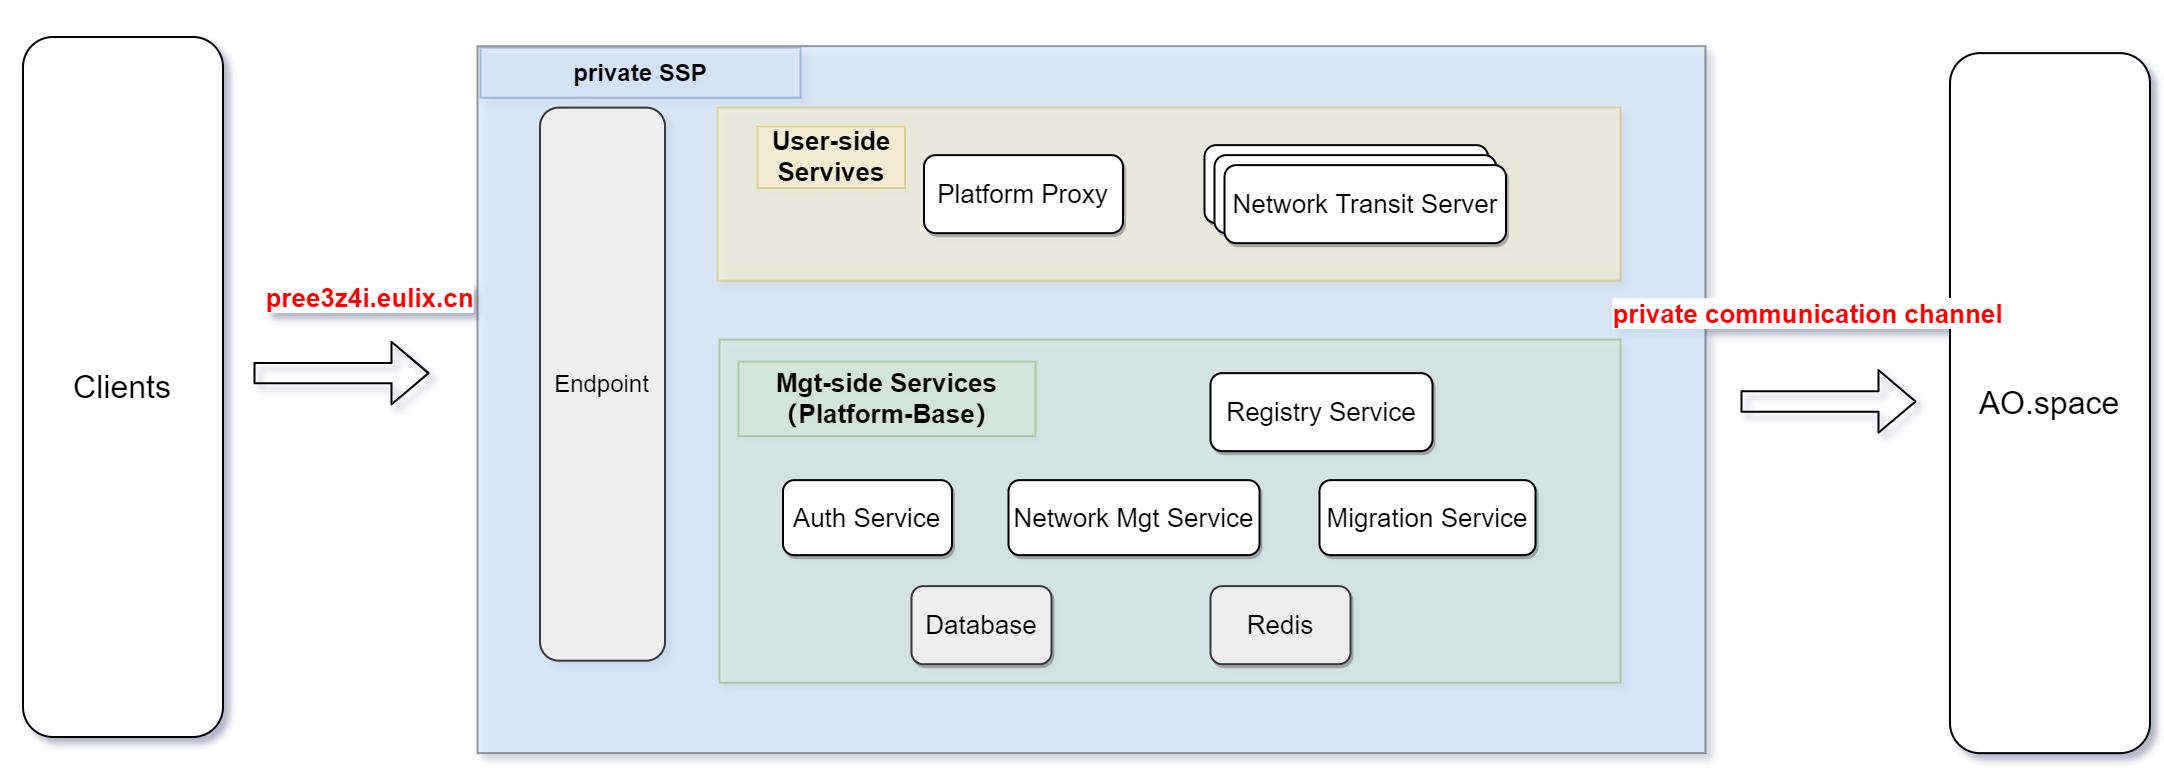
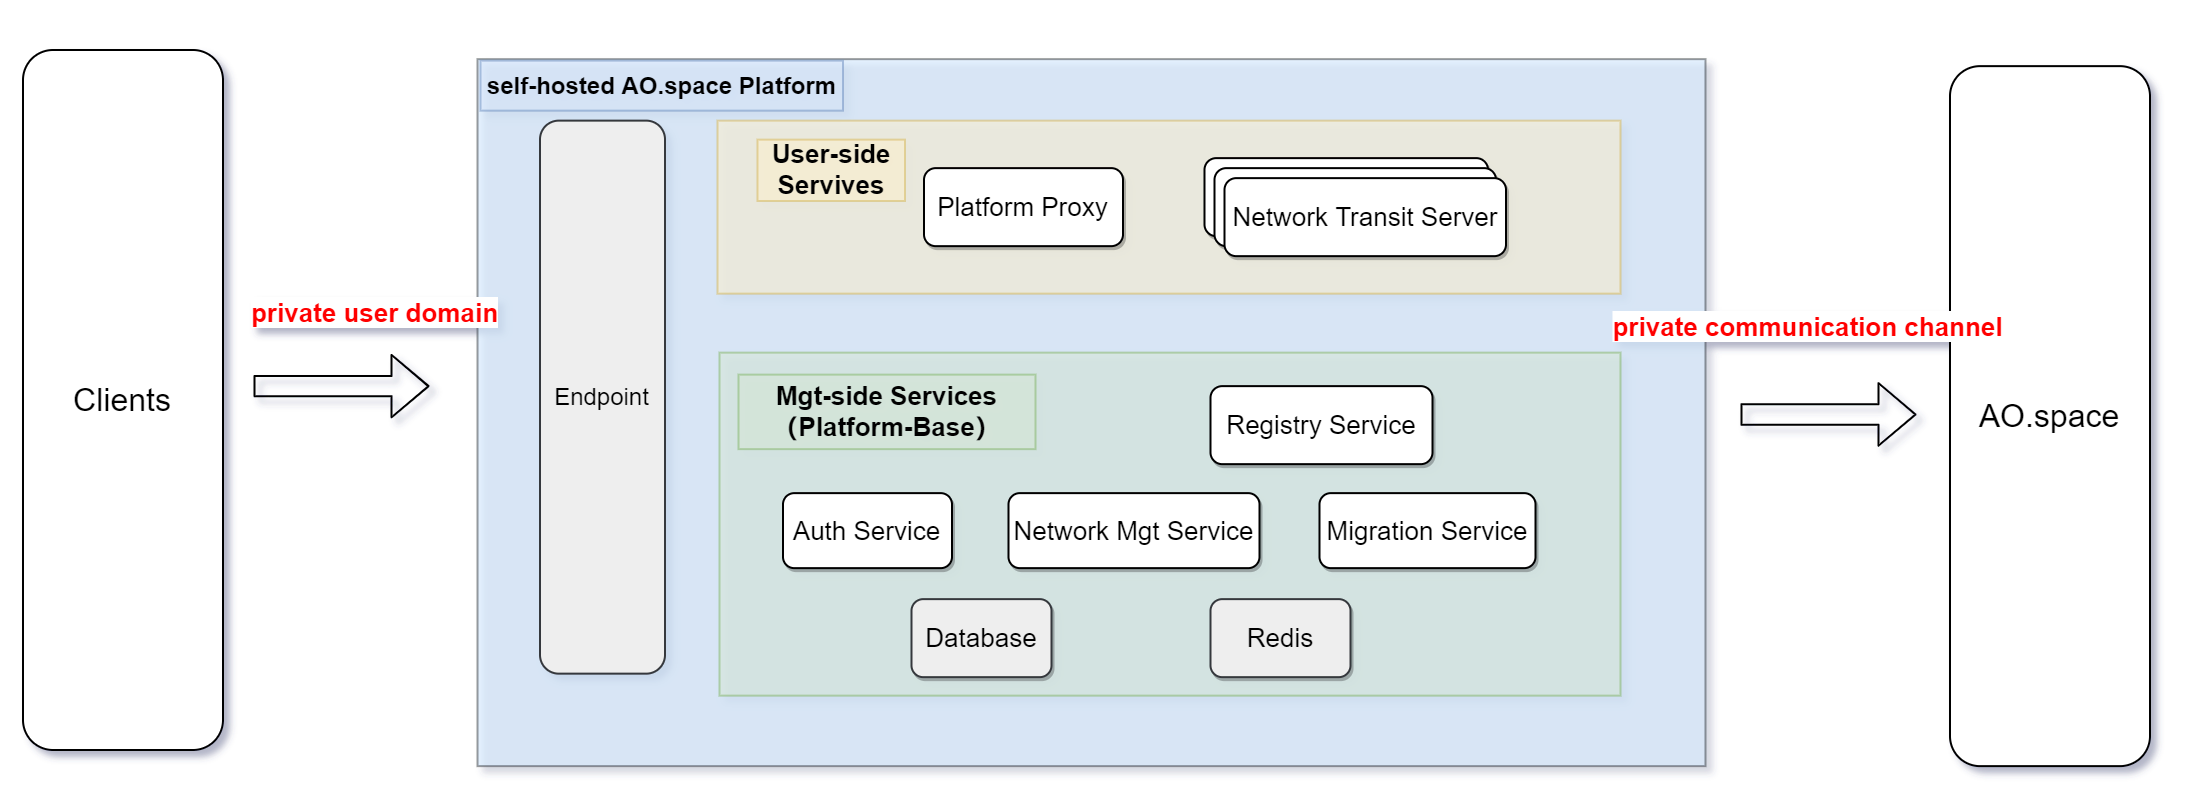
Update README_zn.md

diff --git a/README.md b/README.md
@@ -2,7 +2,7 @@
 
 - [Brief Introduction](#brief-introduction)
 - [System Architecture](#system-architecture)
-    - [The SSP of AO.space](#The-SSP-of-AO.space)
+    - [AO.space Platform](#ao.space-platform)
     - [Platform-Base](#platform-base)
 - [Environment Variables](#environment-variables)
 - [Build and Run Application](#build-and-run-application)
@@ -11,15 +11,15 @@
 
 ## Brief Introduction
 
-AO.space Platform is an open source project incubated and operated by the AO.space team (affiliated to the Intelligent Software Research Center of the Software Research Institute of the Chinese Academy of Sciences), with the goal of protecting the ownership of personal data and creating a personal centric digital space operating system. The AO.space platform only provides coordination and management of network resources (domain names, communication channels). The platform does not acquire or store any account data and user data, truly achieving that data is stored only in personal devices and fully owned by individuals. Platform-Base is the management side service of AO.space Platform. Meanwhile, the core functions of the space platform will gradually become open source and can be deployed privately, without relying on the official platform.
+AO.space Platform is an open source project incubated and operated by the AO.space team, with the goal of protecting personal data ownership and creating a personal centric digital space operating system. The AO.space Platform only provides coordination and management of network resources (domain names, communication channels). The platform does not acquire or store any account data and user data, truly achieving that data is stored only in personal devices and fully owned by individuals. 
 
 ## System Architecture
 
 ![SSP&Platform-Base Arch.png](docs/en/asserts/SSP&Platform-Base%20Arch.png)
 
-### The SSP of AO.space
+### AO.space Platform
 
-The responsibility of SSP is to establish a transparent communication channel for personal equipment. It includes the Platform Proxy Service, the Network Transit Server, and the Platform Base Service.
+The responsibility of AO.space Platform is to establish a transparent communication channel for personal equipment. It includes the Platform Proxy Service, the Network Transit Server, and the Platform Base Service.
 
 1. User-side Services: It is used to forward the requests from clients to AO.space.
 - Plarform Proxy Service: provide high-availability forwarding and horizontal expansion support for the requests from clients.
@@ -27,7 +27,7 @@ The responsibility of SSP is to establish a transparent communication channel fo
 
 2. The role of the management-side service is to provide the registration service of AO.space, and coordinate and manage the platform network resources (domain name, communication channel, etc.).
 
-> **_ Note:_** For a complete deployment guide of the SSP, please refer to [AOPlatform Community Deployment Guide](https://ao.space/open/documentation/104002).
+> **_Note:_** For a complete deployment guide of AO.space Platform, please refer to [AOPlatform Community Deployment Guide](https://ao.space/open/documentation/104002).
 
 ### Platform-Base
 
@@ -36,7 +36,7 @@ Platform-Base is the implementation of management-side service, which mainly pro
 1. Authenticate the identity of AO.space
 2. Provide the registration function of device, user and client
 3. Coordinate and manage platform network resources (domain name, communication channel, etc.)
-4. SSP switching
+4. Switch self-hosted AO.space Platform
 
 > **_NOTE:_** This project uses Quarkus, the Supersonic Subatomic Java Framework. If you want to learn more about Quarkus, please visit its website: [QUARKUS](https://quarkus.io/) .
 

diff --git a/README_zn.md b/README_zn.md
@@ -11,7 +11,7 @@
 
 ## 简介
 
-AO.space Platform 是由傲空间团队（隶属于中国科学院软件研究所智能软件研究中心）孵化及运营的开源项目，目标是保护个人数据所有权，打造以个人为中心的数字空间操作系统。傲空间空间平台仅提供网络资源（域名、通信信道）的协调和管理，平台不获取、不存储任何账号数据和用户数据，真正做到数据仅存放于个人设备里，完全属于个人所有。Platform-Base 是傲空间空间平台的管理面服务，同时空间平台核心功能将逐步开源，可私有部署，不再依赖官方平台。
+傲空间空间平台是由傲空间团队孵化及运营的开源项目，目标是保护个人数据所有权，打造以个人为中心的数字空间操作系统。傲空间空间平台仅提供网络资源（域名、通信信道）的协调和管理，平台不获取、不存储任何账号数据和用户数据，真正做到数据仅存放于个人设备里，完全属于个人所有。
 
 ## 系统架构
 
